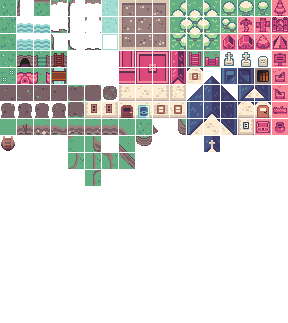
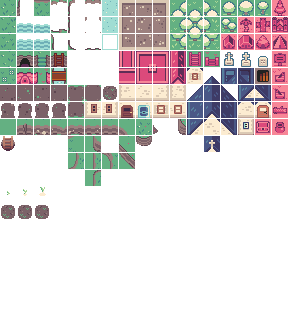
start adding onion

Changed region(s): [[0.0, 0.5882, 0.1875, 0.6811]]

diff --git a/src/characters/dialogue/OnionDialogue.ts b/src/characters/dialogue/OnionDialogue.ts
@@ -1,0 +1,29 @@
+import { Lists } from "brigsby/dist/util"
+import { InteractIndicator } from "../../ui/InteractIndicator"
+import { Dude } from "../Dude"
+import {
+    DialogueOption,
+    DialogueSet,
+    NextDialogue,
+    dialogueWithOptions,
+    getExitText,
+    option,
+} from "./Dialogue"
+
+export const ONION_DIALOGUE_ENTRYPOINT = "onion-start"
+
+const ONION_LAST_GOODBYES = ["Forgive me.", "Goodbye.", "Your time has come.", "I'm sorry."]
+
+export const ONION_DIALOGUE: DialogueSet = {
+    [ONION_DIALOGUE_ENTRYPOINT]: (onion: Dude) => {
+        return dialogueWithOptions(
+            ["*The strange sentient onion looks up at you inquisitively.*"],
+            InteractIndicator.NONE,
+            new DialogueOption(`${Lists.oneOf(ONION_LAST_GOODBYES)} [Eat onion]`, () => {
+                // TODO
+                return new NextDialogue(ONION_DIALOGUE_ENTRYPOINT, false)
+            }),
+            option(getExitText(), ONION_DIALOGUE_ENTRYPOINT, false)
+        )
+    },
+}

diff --git a/src/characters/DudeFactory.ts b/src/characters/DudeFactory.ts
@@ -35,6 +35,7 @@ import { Dip } from "./types/Dip"
 import { DudeModifier } from "./types/DudeModifier"
 import { Enemy } from "./types/Enemy"
 import { Mimic } from "./types/Mimic"
+import { Onion } from "./types/Onion"
 import { ShamanHealer } from "./types/ShamanHealer"
 import { ShroomNPC } from "./types/ShroomNPC"
 import { SpookyVisitor } from "./types/SpookyVisitor"
@@ -464,8 +465,8 @@ export class DudeFactory {
             case DudeType.ONION: {
                 factions = [DudeFaction.VILLAGERS]
                 animationName = "onion"
-                weapon = WeaponType.UNARMED
-                additionalComponents = [new NPC(), new Villager()]
+                weapon = WeaponType.NONE
+                additionalComponents = [new NPC(), new Villager(), new Onion()]
                 maxHealth = 50
                 speed *= 0.7
                 break

diff --git a/src/items/Items.ts b/src/items/Items.ts
@@ -211,6 +211,13 @@ export const ITEM_METADATA_MAP: Partial<Record<Item, ItemSpec>> = {
         consumable: ItemUtils.consumable("eat", SOUNDS.eat, (consumer) => consumer.heal(0.5)),
         droppedIconSupplier: () => Tilesets.instance.outdoorTiles.getTileSource("berries"),
     }),
+    [Item.ONION]: new ItemSpec({
+        displayName: "Magic onion bulb",
+        description: "???",
+        inventoryIcon: "onion",
+        // consumable: ItemUtils.consumable("eat", SOUNDS.eat, (consumer) => consumer.heal(0.5)), // TODO placeable
+        droppedIconSupplier: () => Tilesets.instance.outdoorTiles.getTileSource("berries"), // TODO
+    }),
     [Item.EXPLORER_MAP]: new ItemSpec({
         displayName: "Explorer's map",
         inventoryIcon: "map",

diff --git a/src/characters/dialogue/Dialogue.ts b/src/characters/dialogue/Dialogue.ts
@@ -7,6 +7,7 @@ import { DOCTOR_DIALOGUE } from "./DoctorDialogue"
 import { DONATION_DIALOGUES } from "./DonationBoxDialogue"
 import { GENERIC_DIALOGUE } from "./GenericDialogue"
 import { LANTERN_DIALOGUES } from "./LanternDialogue"
+import { ONION_DIALOGUE } from "./OnionDialogue"
 import { SPOOKY_VISITOR_DIALOGUE } from "./SpookyVisitorDialogue"
 import { VILLAGER_DIALOGUE } from "./VillagerDialogue"
 
@@ -126,6 +127,7 @@ export const getDialogue = (
         ...SPOOKY_VISITOR_DIALOGUE,
         ...DONATION_DIALOGUES,
         ...LANTERN_DIALOGUES,
+        ...ONION_DIALOGUE,
     }
 
     const dialogueSupplier = set[dialogue]

diff --git a/src/characters/types/Onion.ts b/src/characters/types/Onion.ts
@@ -1,0 +1,9 @@
+import { AwakeData, Component } from "brigsby/dist"
+import { Dude } from "../Dude"
+import { ONION_DIALOGUE_ENTRYPOINT } from "../dialogue/OnionDialogue"
+
+export class Onion extends Component {
+    awake(awakeData: AwakeData): void {
+        this.entity.getComponent(Dude).dialogue = ONION_DIALOGUE_ENTRYPOINT
+    }
+}

diff --git a/src/items/Item.ts b/src/items/Item.ts
@@ -29,6 +29,7 @@ export enum Item {
     LAMP_OIL,
     WORKBENCH,
     TOWN_HALL,
+    ONION,
 
     // weapon values should match the WeaponType enum so we can cast them
     KNIFE = WeaponType.KNIFE,
